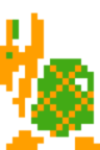
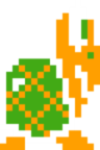
Revert "Revert "Flipped koopa image to face the right direction. Enemies now reach the end of the screen. Reaching the goal or colliding the enemie resets the enemies now.""
This reverts commit c2bceb41567ddca32ab44248f8c99a7971f742cd.

diff --git a/app.js b/app.js
@@ -1,3 +1,4 @@
+var gameScore = 0;
 // Enemies our player must avoid
 var Enemy = function(row, speed) {
     // Variables applied to each of our instances go here,
@@ -15,11 +16,14 @@ Enemy.prototype.update = function(dt) {
     // which will ensure the game runs at the same speed for
     // all computers.
     this.x = this.x + this.speed * dt;
-    if (this.x > 500) this.x = -100;
+    if (this.x > 700) this.x = -100;
 }
 // Draw the enemy on the screen, required method for game
 Enemy.prototype.render = function() {
     ctx.drawImage(Resources.get(this.sprite), this.x, this.y);
+}
+Enemy.prototype.reset = function() {
+    this.x = -100;
 }
 // Now write your own player class
 // This class requires an update(), render() and
@@ -58,19 +62,20 @@ Player.prototype.handleInput = function(key) {
     else if ( key === 'down' || key=='down2') {
         if ( this.y < 750 ) {
             this.y = this.y + 80;
-        } 
+        }
     }
 }
 Player.prototype.reset = function() {
     this.x = 350;
     this.y = 750;
-    this.score = 0;    
+    this.score = 0;
 }
 // Now instantiate your objects.
 // Place all enemy objects in an array called allEnemies
 // Place the player object in a variable called player
 var allEnemies = [];
-for (var i = 0; i < 7; i++) {
+var myScore = 0;
+for (var i = 0; i < 6; i++) {
     if(i%2==0) {
         var random_speed = getRandomNumber(10, 31) * 13;
         var random_row = getRandomNumber(1, 7);

diff --git a/engine.js b/engine.js
@@ -86,18 +86,24 @@ var Engine = (function(global) {
         allEnemies.forEach(function(enemy) {
             enemy.update(dt);
         });
-        if ( Math.round(player.y / 80) === 0 ) {
+        if ( player.y < 80 ) {
             player.update();
+            allEnemies.forEach(function(enemy) {
+              enemy.reset();
+            });
         }
         doc.getElementById('score').innerHTML = player.score;
     }
     function checkCollisions() {
         allEnemies.forEach(function(enemy) {
-            if ( Math.round(enemy.x / 100) === Math.round(player.x / 100) && 
+            if ( Math.round(enemy.x / 100) === Math.round(player.x / 100) &&
                  Math.round(enemy.y / 100) === Math.round(player.y / 100) ) {
                     player.reset();
+                    allEnemies.forEach(function(enemy) {
+                      enemy.reset();
+                    });
             }
-        });    
+        });
     }
     /* This function initially draws the "game level", it will then call
      * the renderEntities function. Remember, this function is called every
